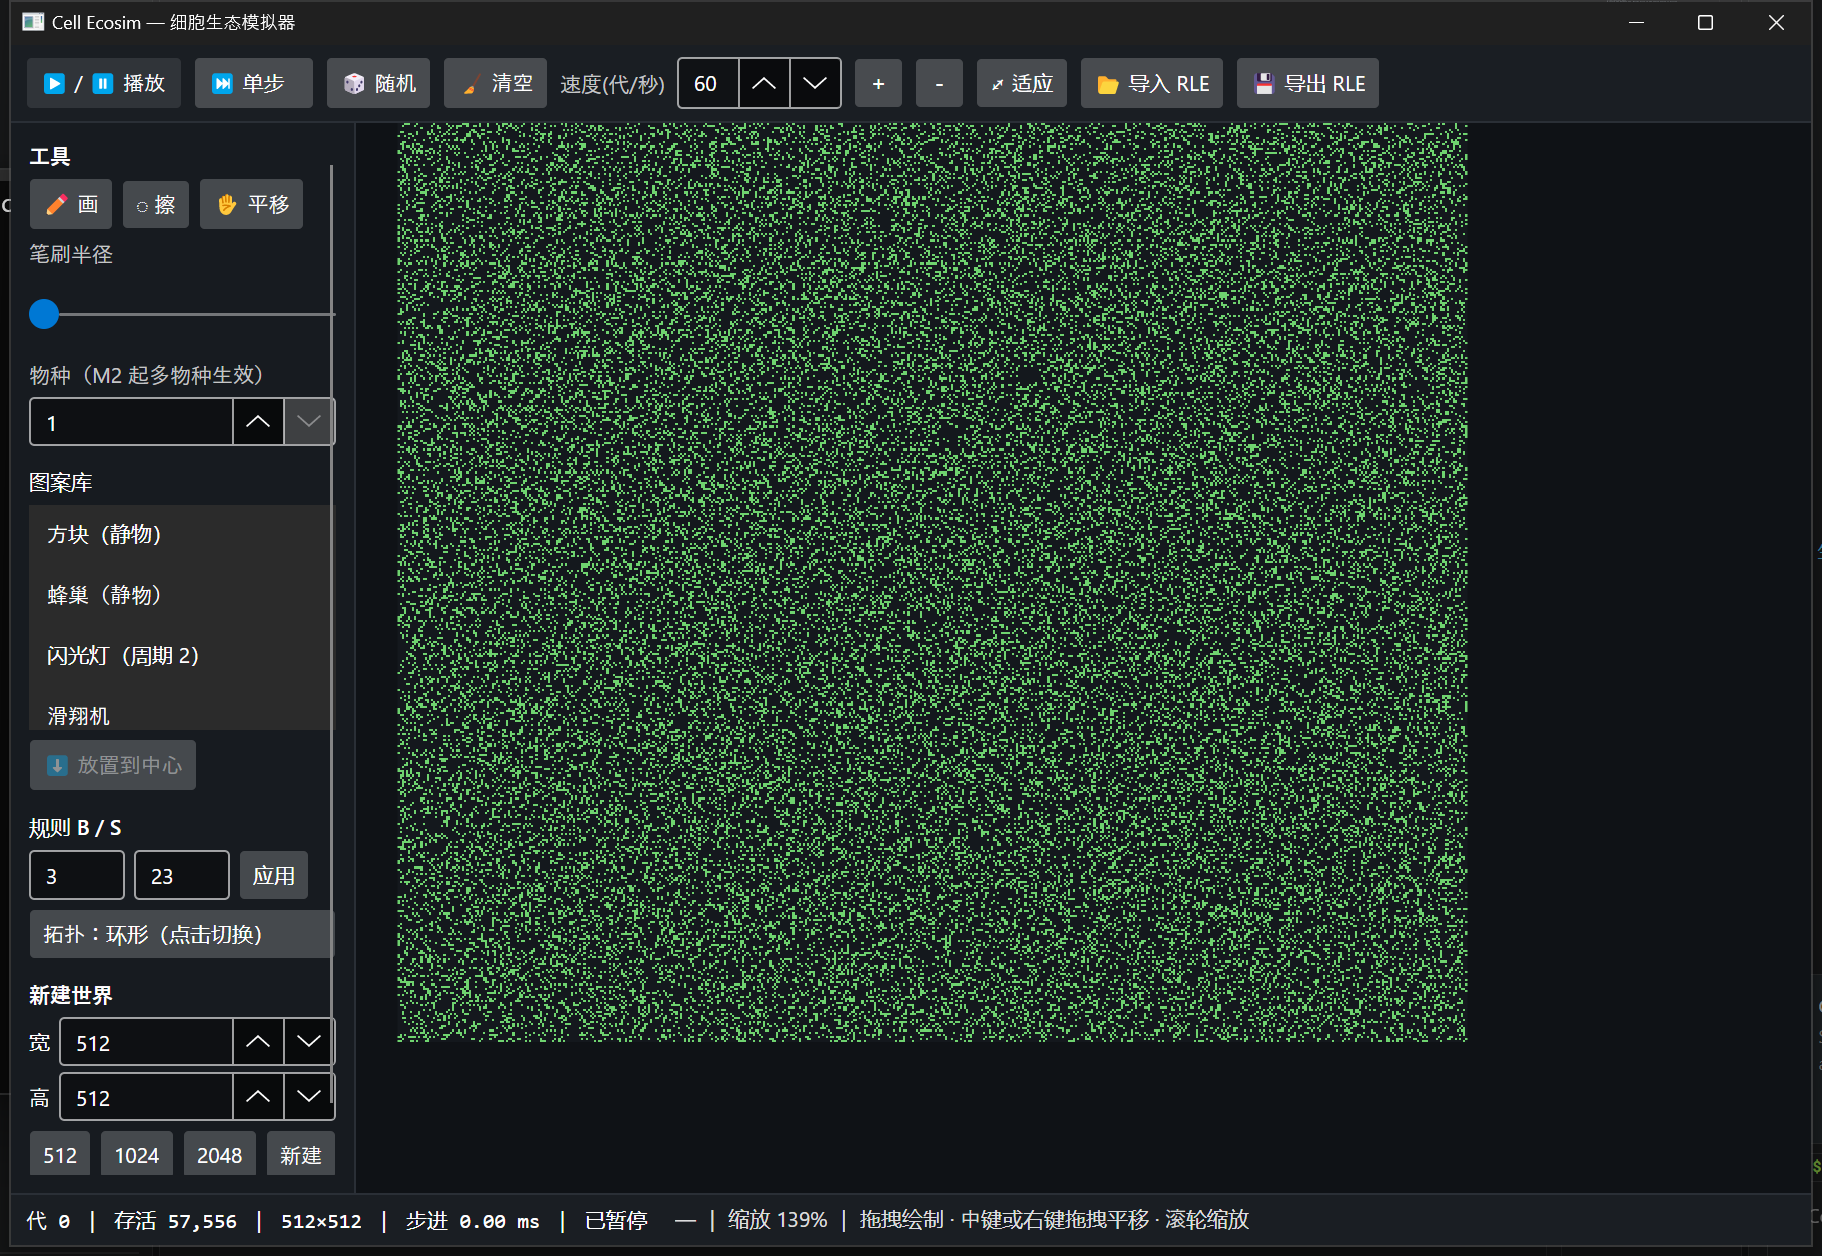
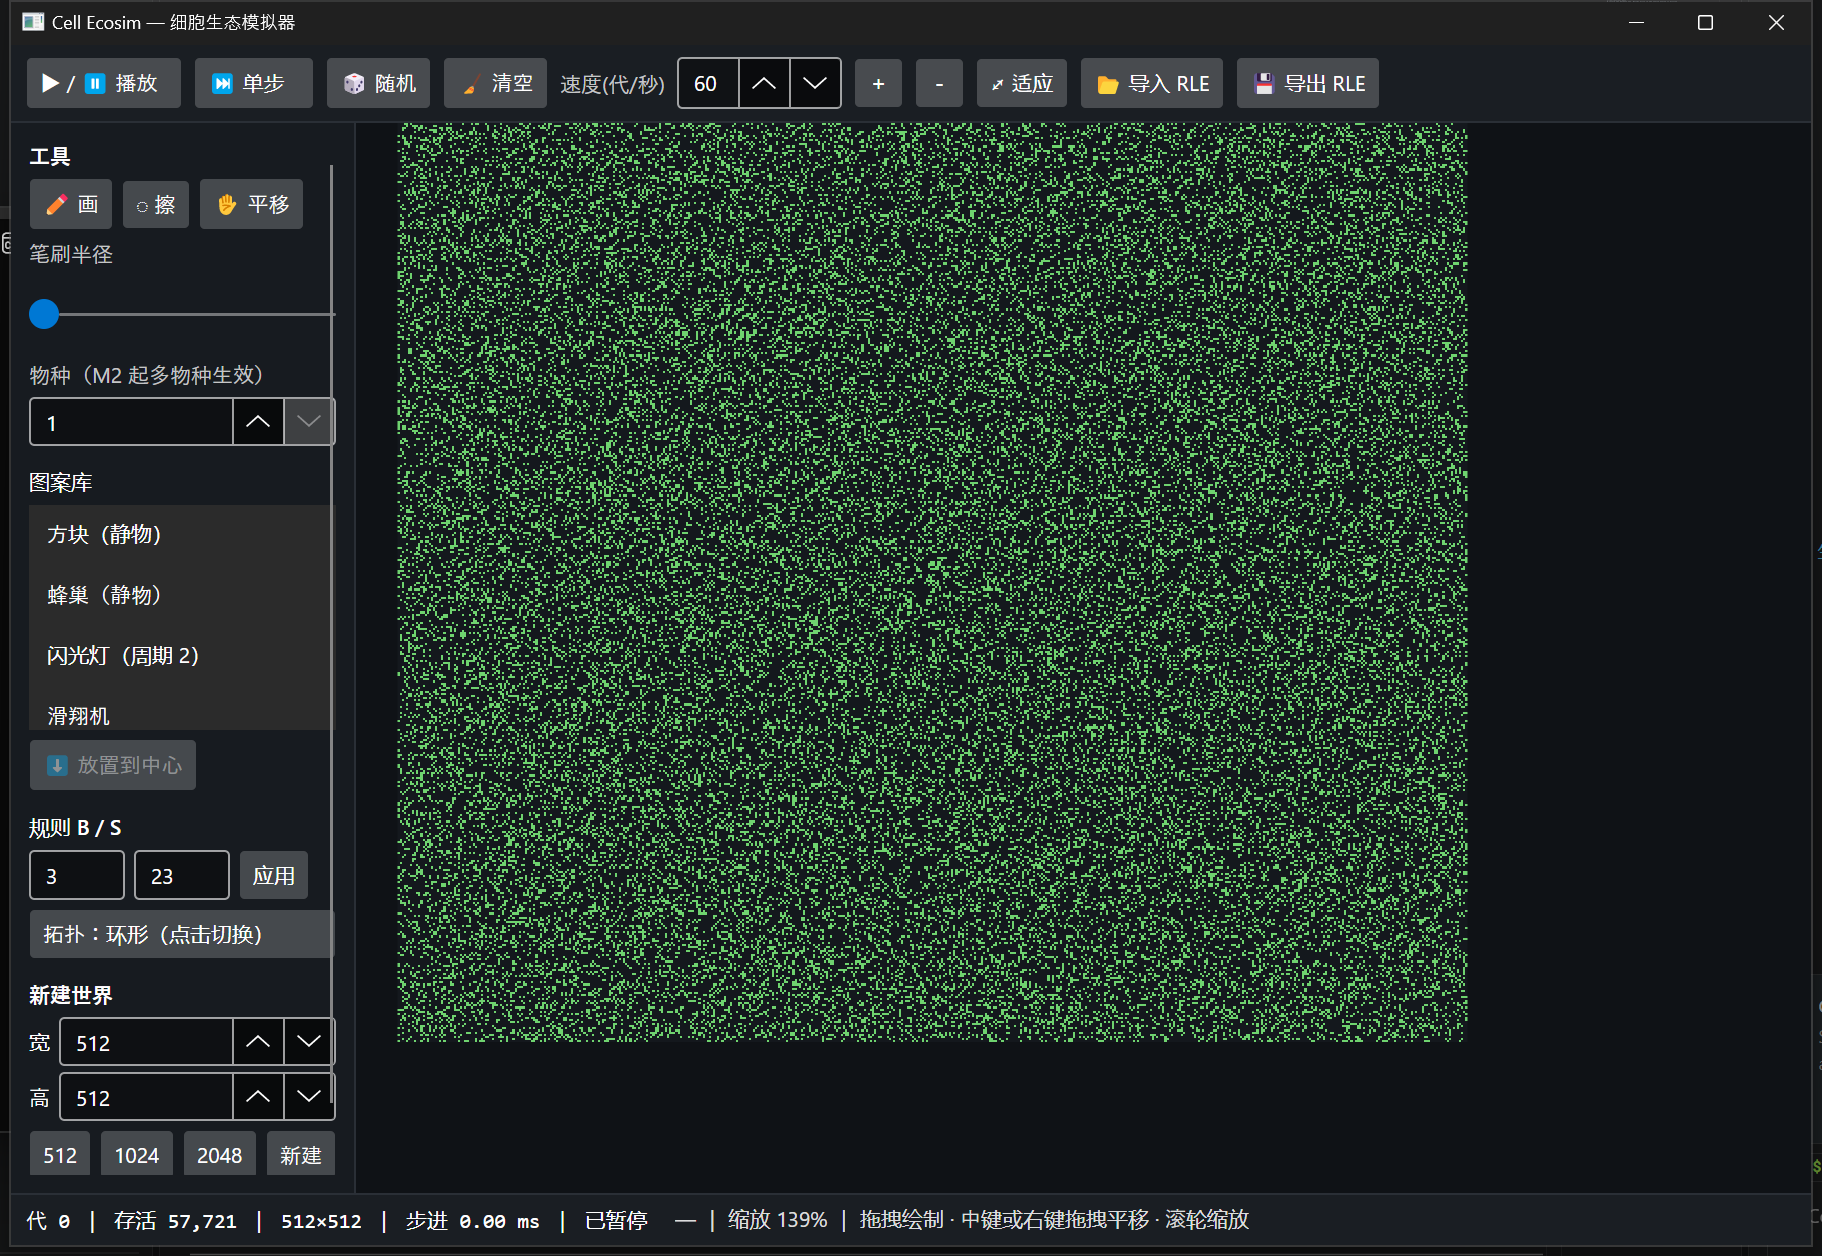
fix(app): invalidate the Image visual after writing bitmap pixels
The canvas looked frozen while the simulation ran: only dragging (which changes
the render transform) revealed new content. Instrumented counters proved the
pump fired ~74/s and Redraw ran ~54/s with generations advancing at 60/s, yet
the canvas region hashed identical across 10 seconds - Avalonia 12's composition
renderer does not mark the Image visual dirty when a WriteableBitmap's pixels
change, so it kept showing the previously uploaded texture.

Redraw now raises FramePainted and the view calls CanvasImage.InvalidateVisual().
Verified by hashing the canvas region 5 s apart: identical before, different now.
Retaken the doc screenshots.

Changed region(s): [[0.2151, 0.0932, 0.7991, 0.8384], [0.1229, 0.9936, 0.8299, 1.0], [0.0307, 0.0621, 0.0922, 0.0932]]

diff --git a/app/Ecosim.App/ViewModels/MainViewModel.cs b/app/Ecosim.App/ViewModels/MainViewModel.cs
@@ -220,7 +220,8 @@ public sealed class MainViewModel : ObservableObject, IDisposable
     public string StatusText
         => $"代 {Generation:N0} ｜ 存活 {Alive:N0} ｜ {_world.Width}×{_world.Height} ｜ "
          + $"步进 {StepMs:F2} ms ｜ "
-         + (IsRunning ? $"播放中 {Speed:N0} 代/秒" : "已暂停");
+         + (IsRunning ? $"播放中 {Speed:N0} 代/秒" : "已暂停")
+;
 
     // ---- commands --------------------------------------------------------
 
@@ -254,6 +255,13 @@ public sealed class MainViewModel : ObservableObject, IDisposable
 
     // ---- behaviour -------------------------------------------------------
 
+    /// <summary>Raised after the bitmap's pixels changed. The view must
+    /// invalidate the Image visual: mutating a WriteableBitmap does not, by
+    /// itself, mark the visual dirty, so the compositor keeps showing the
+    /// previously uploaded texture (that is exactly the "frozen until you drag"
+    /// bug this event exists to prevent).</summary>
+    public event EventHandler? FramePainted;
+
     public void Redraw()
     {
         _paintedVersion = _stateVersion;
@@ -264,6 +272,7 @@ public sealed class MainViewModel : ObservableObject, IDisposable
             _canvasBitmap = _renderer.Bitmap;
             OnPropertyChanged(nameof(CanvasBitmap));
         }
+        FramePainted?.Invoke(this, EventArgs.Empty);
     }
 
     public void ZoomAtCentre(double factor)

diff --git a/app/Ecosim.App/MainWindow.axaml.cs b/app/Ecosim.App/MainWindow.axaml.cs
@@ -43,6 +43,10 @@ public partial class MainWindow : Window
             vm.Redraw();
         };
         vm.PropertyChanged += OnViewModelChanged;
+        // Mutating the WriteableBitmap's pixels does not mark the Image visual
+        // dirty in Avalonia 12's composition renderer; without this the canvas
+        // shows a stale texture until something else invalidates the window.
+        vm.FramePainted += (_, _) => CanvasImage.InvalidateVisual();
         AttachCanvas(vm);
 
         CanvasImage.Source = vm.CanvasBitmap;

diff --git a/docs/architecture.md b/docs/architecture.md
@@ -71,6 +71,12 @@ Avalonia 侧位图是**一格一像素**，缩放平移靠 `RenderTransform` 的
 实测：帧间隔 16ms 为主（偶发 32ms），~55fps，60 代/秒设定下实际 ~58 代/秒。
 单帧工作量 0.25–0.5ms（其中 `Stats()` 全表扫描 0.2ms，M2 起改增量统计）。
 
+**改过位图像素必须显式失效 Image 视觉。** Avalonia 12 的合成渲染器不会因为
+`WriteableBitmap.Lock()` 写入内容就把那个视觉标脏：它会继续用已上传的旧纹理。
+症状是"画面静止，除非拖动窗口/平移才跳出新内容"。因此 `MainViewModel.Redraw()` 末尾
+触发 `FramePainted`，视图订阅后调用 `CanvasImage.InvalidateVisual()`。
+验证方式很直接：相隔 5 秒截同一块画布区域做哈希，修前完全相同，修后不同。
+
 ## 图案与 RLE
 
 - RLE 严格 Golly 单状态语义（`b/o/$/!`，`#` 注释），多物种将来走 `.cew`（附录 A.6）。
